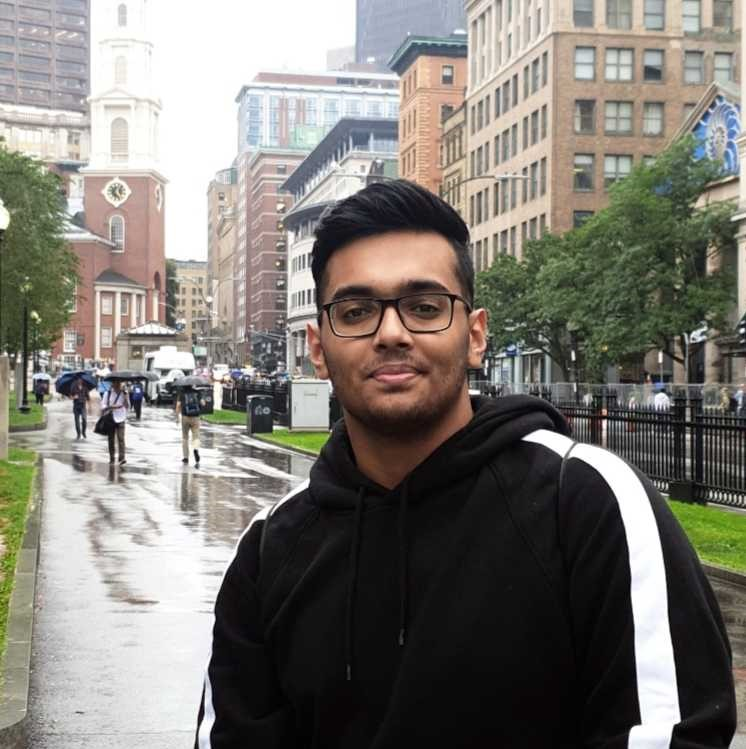
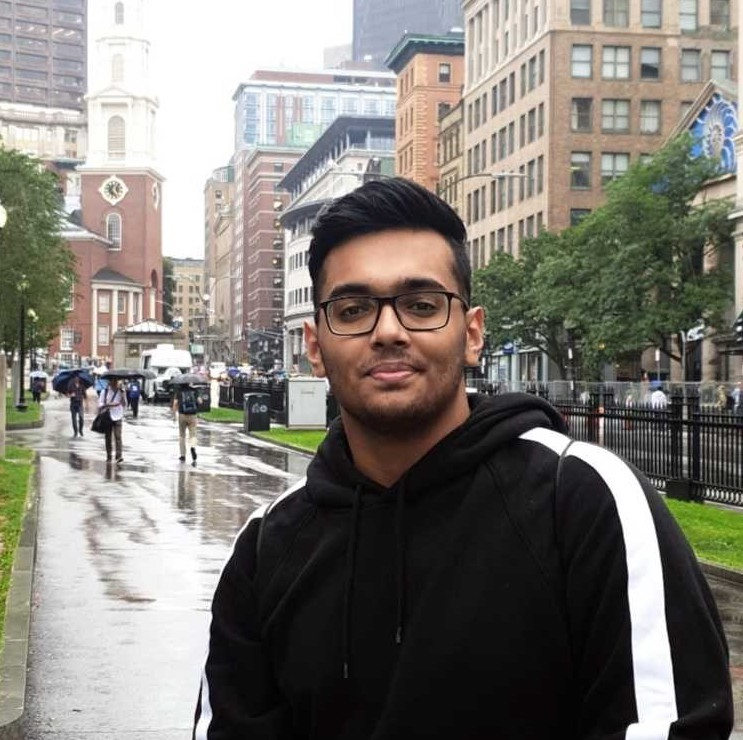
Images cropped to fit dimensions, Eric's info added, added some styling to Slack handle

diff --git a/site/pages/team/index.md b/site/pages/team/index.md
@@ -29,7 +29,8 @@ latest constitution is available [here](/constitution).
               <h6> *"I like to cook and work on electronics projects in my free time." * </h6>
 
               <h6 href="mailto:pagottes@buffalo.edu">  pagottes@buffalo.edu </h6>
-              <h6> Find me on UB ACM Slack @pagottes </h6>
+              <h6> Find me on UB ACM Slack  </h6>
+              <h6 style= "color: #33FFFF;"> @pagottes </h6>
          </div>
      </div>
   </div>
@@ -51,7 +52,8 @@ latest constitution is available [here](/constitution).
               <h6> *"I love playing football(soccer) and TV shows have been helping me fight through quarantine."* </h6>
 
               <h6 href="mailto:anarghya@buffalo.edu">  anarghya@buffalo.edu </h6>
-              <h6> Find me on UB ACM Slack @Anarghya </h6>
+              <h6> Find me on UB ACM Slack </h6>
+              <h6 style= "color: #33FFFF;"> @Anarghya </h6>
          </div>
      </div>
   </div>
@@ -72,7 +74,8 @@ latest constitution is available [here](/constitution).
               <h6> *"Full-time CS, part-time Counter Strike. I love watching TV shows, speculating fan theories and gardening. Bribe me with Bubble Slushie. "* </h6>
 
               <h6 href="mailto:gtoravan@buffalo.edu"> gtoravan@buffalo.edu </h6>
-              <h6> Find me on UB ACM Slack @Gaurav Toravane </h6>
+              <h6> Find me on UB ACM Slack </h6>
+              <h6 style= "color: #33FFFF;"> @Gaurav Toravane </h6>
          </div>
      </div>
   </div>
@@ -89,11 +92,11 @@ latest constitution is available [here](/constitution).
          <div class="flip-card-back">
               <h6> Computer Engineering B.S., Mathematics-Economics B.A., Political Science Minor '21 </h6>
               <h6> He / Him / His </h6>
-              <h6> Sexuality </h6>
-              <h6> *"Blah blah blah "* </h6>
+              <h6> Heterosexual </h6>
 
               <h6 href="mailto:eweinman@buffalo.edu"> eweinman@buffalo.edu </h6>
-              <h6> Find me on UB ACM Slack   @Eric Weinman </h6>
+              <h6> Find me on UB ACM Slack </h6>
+              <h6 style= "color: #33FFFF;"> @Eric Weinman </h6>
          </div>
      </div>
   </div>
@@ -113,7 +116,9 @@ latest constitution is available [here](/constitution).
               <h6> *"Other than traveling and being spontaneous, I love to listen to music. You will always find me creating new playlists on Spotify."* </h6>
 
               <h6 href="mailto:aritrapa@buffalo.edu"> aritrapa@buffalo.edu </h6>
-              <h6> Find me on UB ACM Slack @Aritra Paul </h6>
+              <h6> Find me on UB ACM Slack </h6>
+              <h6 style= "color: #33FFFF;"> @Aritra Paul </h6>
+
          </div>
      </div>
   </div>
@@ -131,10 +136,11 @@ latest constitution is available [here](/constitution).
               <h6> Computer Science B.S. '20 </h6>
               <h6> She / Her / Hers </h6>
               <h6> Bisexual </h6>
-              <h6> *"I love singing, advocating for underrepresented groups in CS and browsing Wikipedia(yes!). Also women's clothing need more pockets!!!"* </h6>
+              <h6> *"I sing, advocate for minorities in CS and browse Wikipedia. Also women's clothing need more pockets!!!"* </h6>
 
               <h6 href="mailto:cbandal@buffalo.edu"> cbandal@buffalo.edu </h6>
-              <h6> Find me on UB ACM Slack @chin </h6>
+              <h6> Find me on UB ACM Slack </h6>
+              <h6 style= "color: #33FFFF;">  @chin </h6>
          </div>
      </div>
   </div>
@@ -153,7 +159,8 @@ latest constitution is available [here](/constitution).
               <h6> He / Him / His </h6>
 
               <h6 href="mailto:afuchs2@buffalo.edu"> afuchs2@buffalo.edu </h6>
-              <h6> Find me on UB ACM Slack @afuchs2 </h6>
+              <h6> Find me on UB ACM Slack </h6>
+              <h6 style= "color: #33FFFF;">  @afuchs2  </h6>
          </div>
      </div>
   </div>
